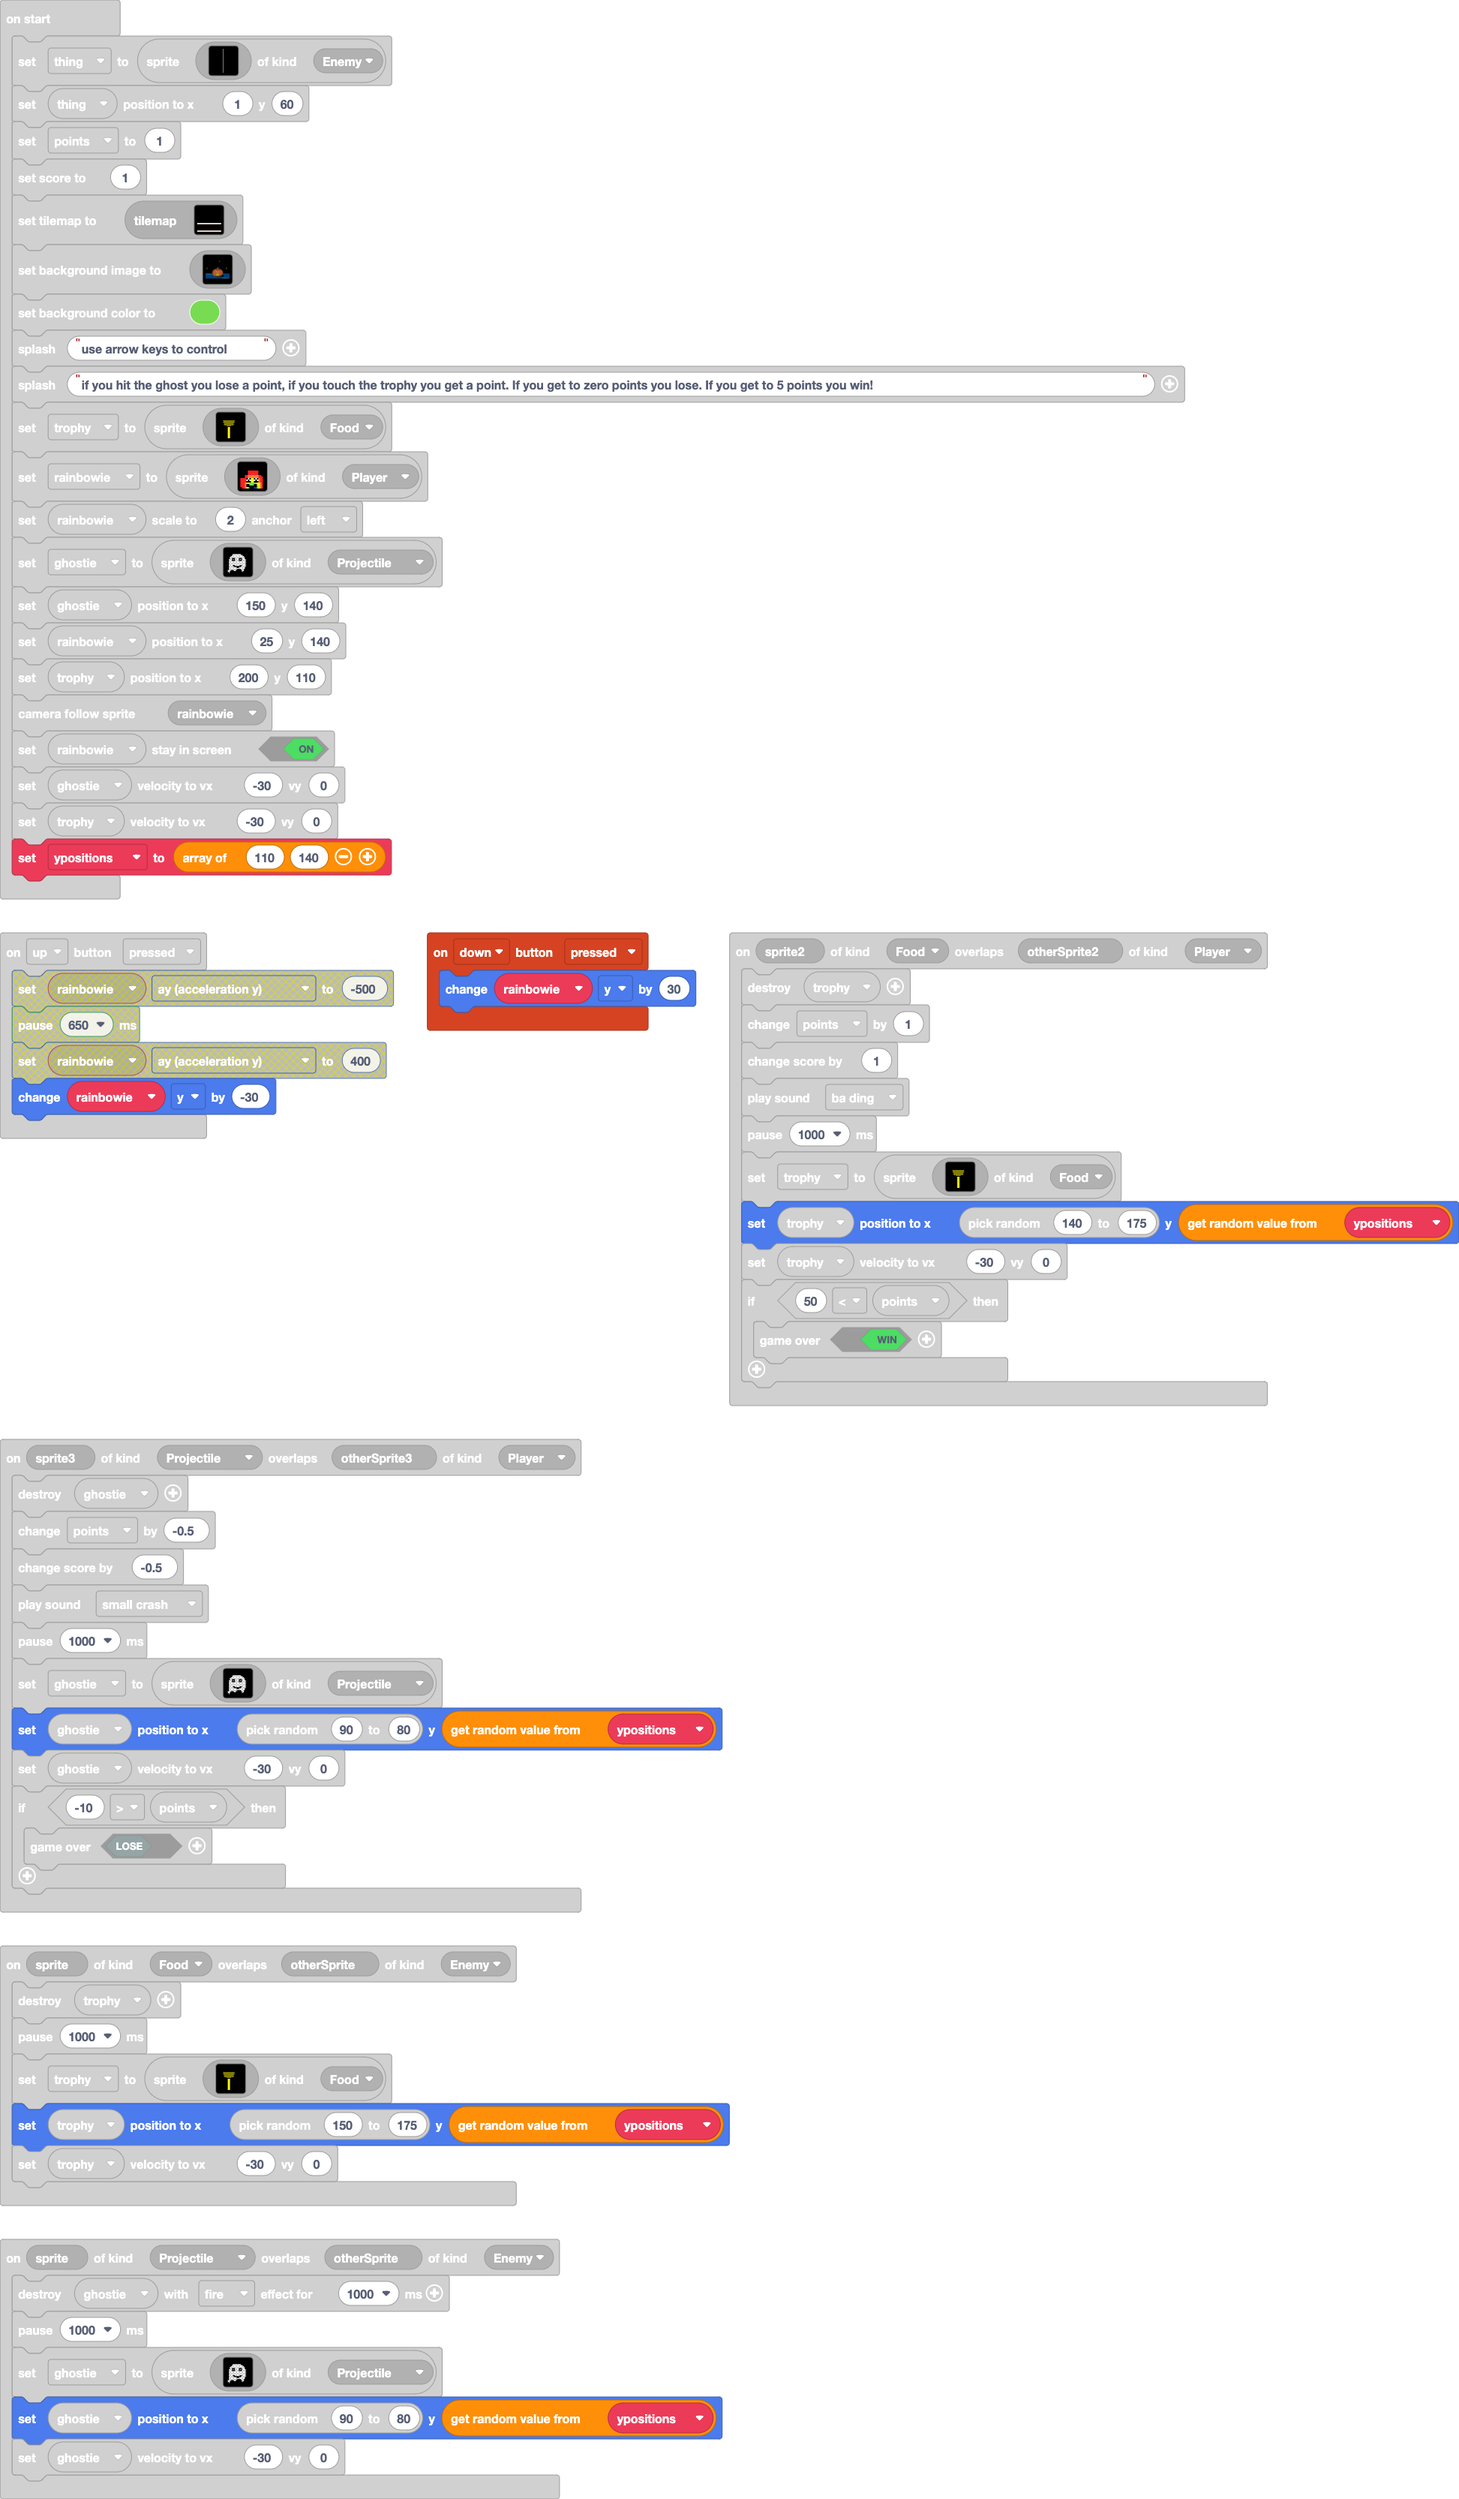
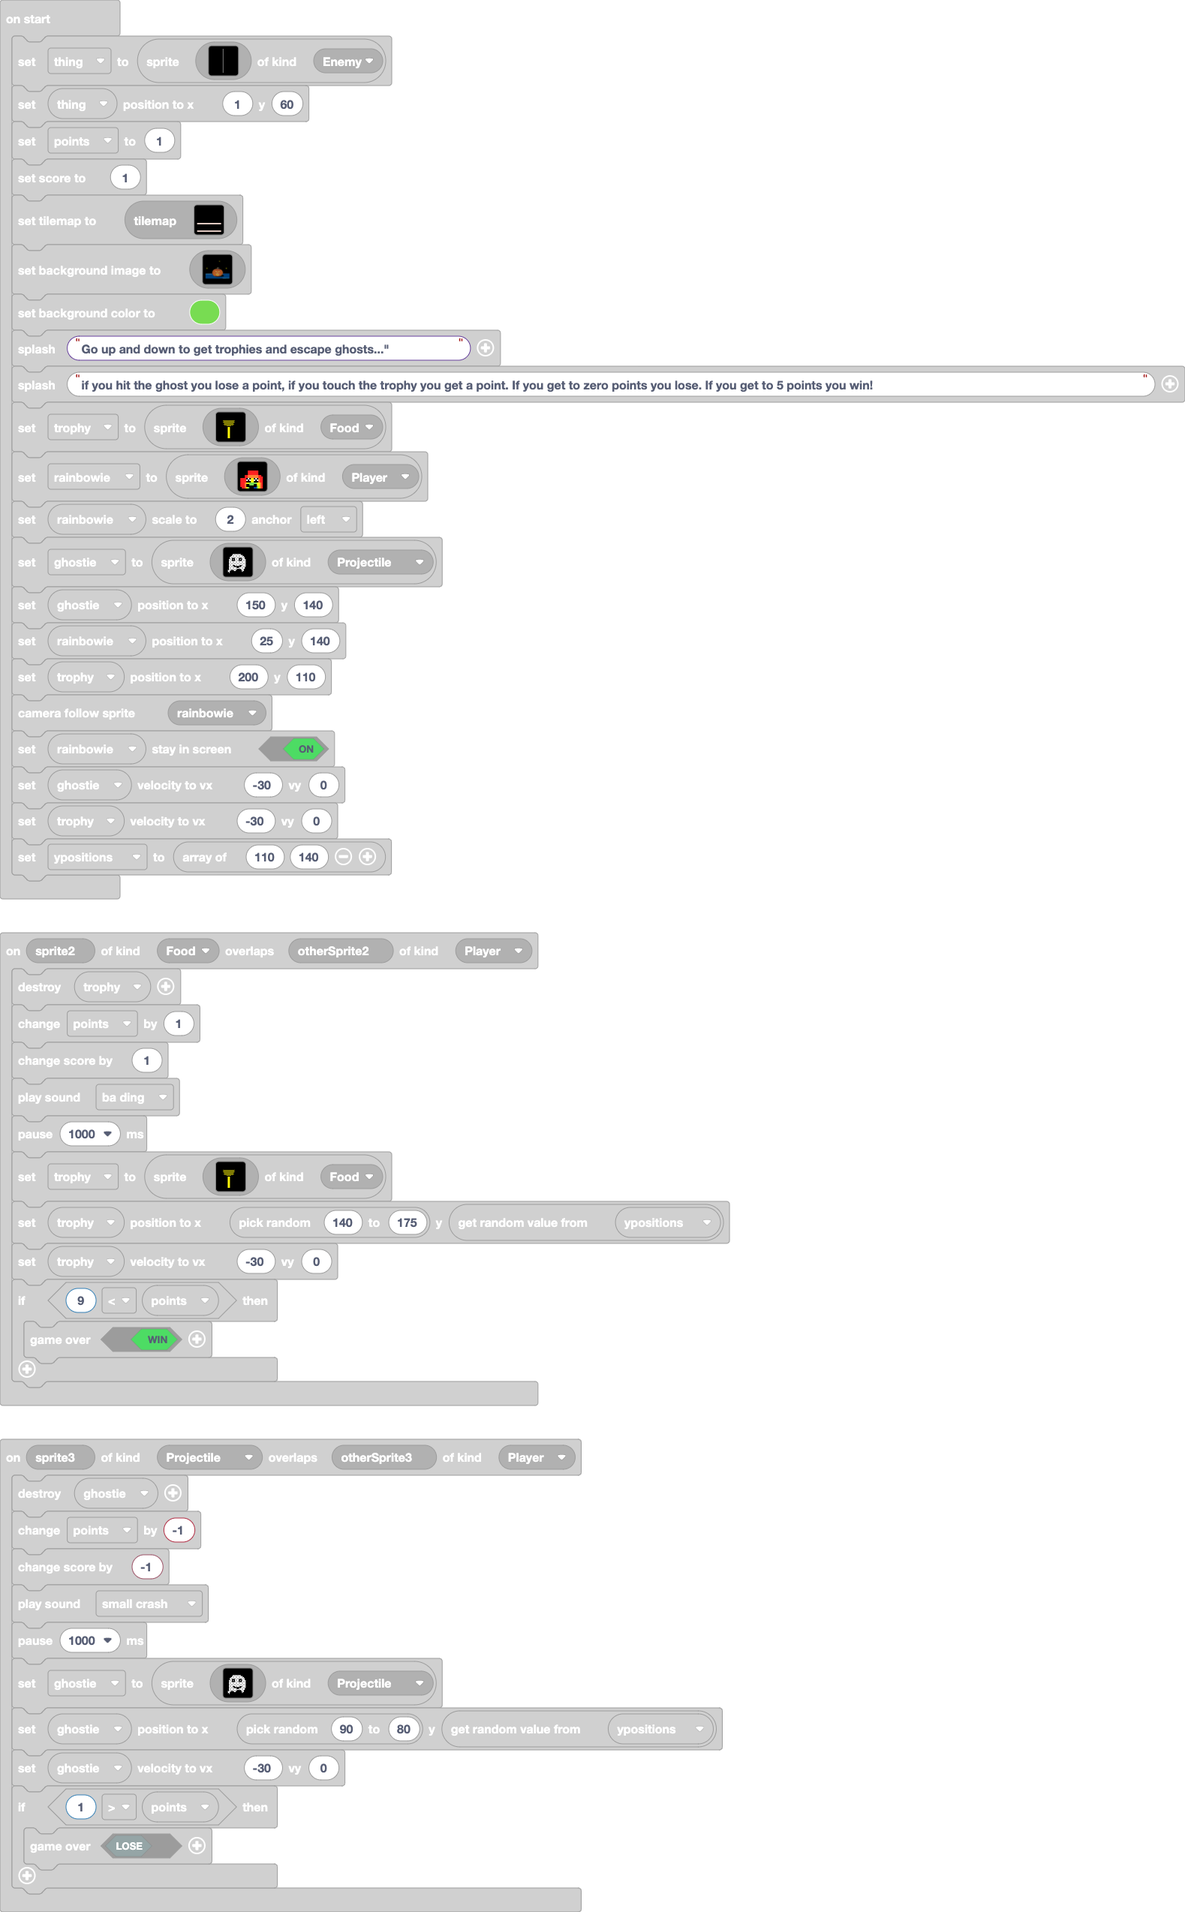
Update main.blocks, main.ts

Changed region(s): [[0.0, 0.0, 1.0, 1.0]]

diff --git a/main.ts b/main.ts
@@ -83,20 +83,20 @@ sprites.onOverlap(SpriteKind.Food, SpriteKind.Player, function (sprite2, otherSp
         `, SpriteKind.Food)
     trophy.setPosition(randint(140, 175), ypositions._pickRandom())
     trophy.setVelocity(-30, 0)
-    if (50 < points) {
+    if (9 < points) {
         game.over(true)
     }
 })
 sprites.onOverlap(SpriteKind.Projectile, SpriteKind.Player, function (sprite3, otherSprite3) {
     ghostie.destroy()
-    points += -0.5
-    info.changeScoreBy(-0.5)
+    points += -1
+    info.changeScoreBy(-1)
     music.smallCrash.play()
     pause(1000)
     ghostie = sprites.create(assets.image`Ghost S`, SpriteKind.Projectile)
     ghostie.setPosition(randint(90, 80), ypositions._pickRandom())
     ghostie.setVelocity(-30, 0)
-    if (-10 > points) {
+    if (1 > points) {
         game.over(false)
     }
 })
@@ -756,7 +756,7 @@ scene.setBackgroundImage(img`
     8888888888888888888888888888888888888888888888888888888888888888888888888888888888888888888888888888888888888888888888888888888888888888888888888888888888888888
     `)
 scene.setBackgroundColor(7)
-game.splash("use arrow keys to control")
+game.splash("Go up and down to get trophies and escape ghosts...\"")
 game.splash("if you hit the ghost you lose a point, if you touch the trophy you get a point. If you get to zero points you lose. If you get to 5 points you win!")
 trophy = sprites.create(img`
     ................................
